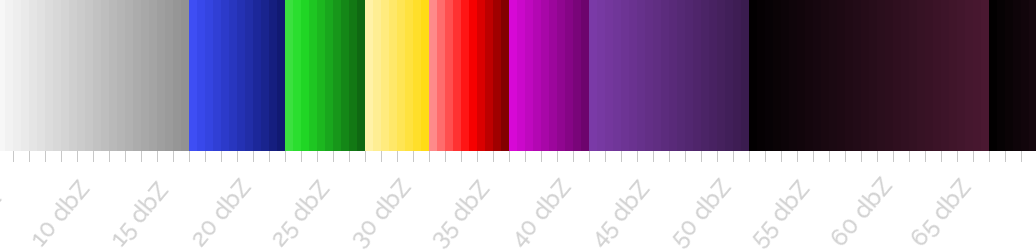
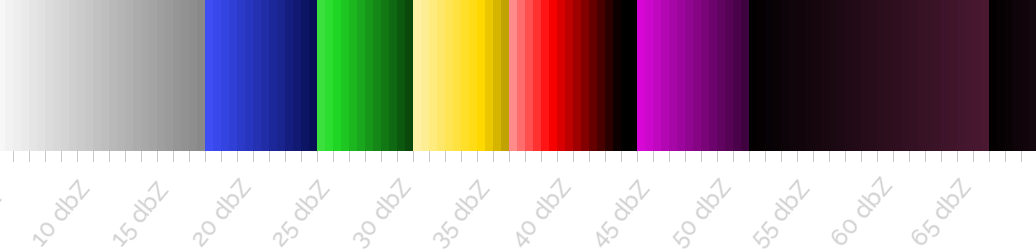
fix rough ui edges

Changed region(s): [[0.2471, 0.0, 0.7413, 0.616], [0.1853, 0.0, 0.2162, 0.616]]

diff --git a/frontend/src/documentation.html b/frontend/src/documentation.html
@@ -22,7 +22,7 @@
       <div id="spacer"></div>
       <div id="compositBar">
         <div id="logolink">
-          <a class="navbar-brand mr-auto mt-2 mt-lg-0" href="/?mobile=ios2">
+          <a class="navbar-brand mr-auto mt-2 mt-lg-0" href="/">
             <img src="./android-chrome-512x512.png" width="30" height="30" class="d-inline-block align-top" alt="meteocool logo">
           </a>
         </div>
@@ -31,7 +31,7 @@
         <span class="navbar-toggler-icon"></span>
       </button>
       <div class="collapse navbar-collapse" id="navbarSupportedContent">
-        <ul class="navbar-nav ml-auto"> <li class="nav-item bg-light" style="height: 100%; "><a id="documentationLink" class="nav-link" href="/?mobile=ios2">&laquo; map view</a></li> </ul>
+        <ul class="navbar-nav ml-auto"> <li class="nav-item bg-light" style="height: 100%; "><a id="documentationLink" class="nav-link" href="/">&laquo; map view</a></li> </ul>
       </div>
     </nav>
     <div id="body"><div id="bodywrap">

diff --git a/frontend/src/index.html b/frontend/src/index.html
@@ -125,7 +125,7 @@
             Lufdruckdaten, um ortsgenaue Vorhersagen bis zu 2 Stunden in die Zukunft treffen zu k&ouml;nnen.</p>
 
             <h5>Unaufdringlich</h5>
-            <p>Niemand mag nerivge Benachrichtigungen. Wir legen zwar gro&szlig;en Wert darauf, die Benachrichtiungen rechtzeitig zu versenden. Trotzdem versuchen wir zu erkennen, wann sie keine
+            <p>Niemand mag nervige Benachrichtigungen. Wir legen zwar gro&szlig;en Wert darauf, die Benachrichtiungen rechtzeitig zu versenden. Trotzdem versuchen wir zu erkennen, wann sie keine
             Rolle f&uuml;r dich spielen. Zum Beispiel, wenn du mit dem Zug oder mit dem Auto <a href="/documentation.html#x1-120002.2.1">unterwegs</a> bist, oder wenn du schl&auml;fst.</p>
 
             <h5>Wetterradar</h5>

diff --git a/frontend/src/index.js b/frontend/src/index.js
@@ -334,7 +334,7 @@ var clusters = new Cluster({
 });
 
 var styleCache = {};
-let STRIKE_MINS = 1000 * 30;
+let STRIKE_MINS = 1000 * 60;
 
 let styleFactory = (age, size) => {
   if (age < 5) {

diff --git a/backend/dwd/dbz2color.py b/backend/dwd/dbz2color.py
@@ -27,37 +27,21 @@ def dbz2color(dbz):
         return scale(0xFE, 0xFC, 0xFD, 10, dbz % (62), False, True)
     if dbz >= 47:
         return scale(0xFE, 0xFC, 0xFD, 15, dbz % (47))
-    if dbz >= 37:
-        return scale(0x98, 0x58, 0xC4, 10, dbz % (37))
+    if dbz >= 40:
+        # purple
+        return scale(0xF6, 0x28, 0xF6, 5, dbz % (40))
     if dbz >= 32:
-        return scale(0xF6, 0x28, 0xF6, 5, dbz % (32))
-    # if dbz >= 60:
-    #    return scale(0xB8, 0x07, 0x11, 5, dbz % (60))
-    # redundant color
-    # if dbz >= 55:
-    #    return scale(0xC9, 0x0B, 0x13, 5, dbz % (55))
-    if dbz >= 27:
         # red
-        return scale(117, 0, 0, 5, dbz % (27), False, True)
-    # if dbz >= 45:
-    #    return scale(0xFA, 0x93, 0x26, 5, dbz % (45))
-    # ugly color
-    # if dbz >= 40:
-    #    return scale(0xE3, 0xBB, 0x2A, 5, dbz % (40))
-    if dbz >= 23:
+        return scale(117, 0, 0, 5, dbz % (32), False, True)
+    if dbz >= 26:
         # yellow
-        return scale(87, 74, 0, 4, dbz % (23), threshold=0.5)
-    # also redundant
-    # if dbz >= 25:
-    #    return scale(0x1E, 0xC4, 0x22, 5, dbz % (25))
-    if dbz >= 18:
-        # return scale(0x2A, 0xFC, 0x30, 5, dbz % (20))
-        # the redundant color looks nicer though...
+        return scale(87, 74, 0, 4, dbz % (26), threshold=0.5)
+    if dbz >= 20:
         # green
-        return scale(0x1E, 0xC4, 0x22, 5, dbz % (18))
-    if dbz >= 12:
+        return scale(0x1E, 0xC4, 0x22, 5, dbz % (20))
+    if dbz >= 13:
         # blau
-        return scale(0x0E, 0x22, 0xEE, 6, dbz % 12, True)
+        return scale(0x0E, 0x22, 0xEE, 6, dbz % 13, True)
     if dbz >= 0:
         # grey
         return (0, 0, 0, int(105 / 12 * (dbz+1))%255)
